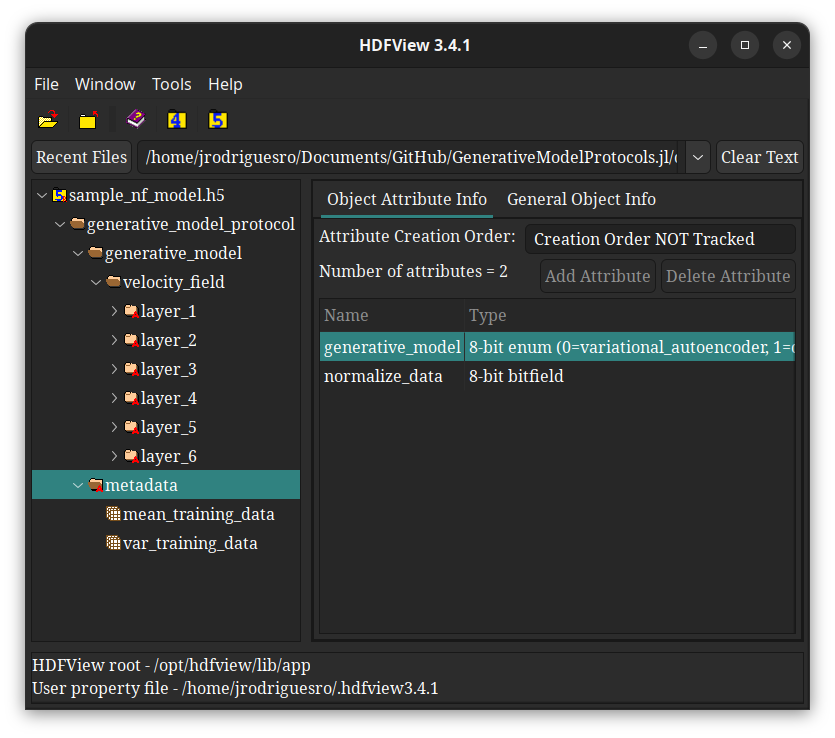
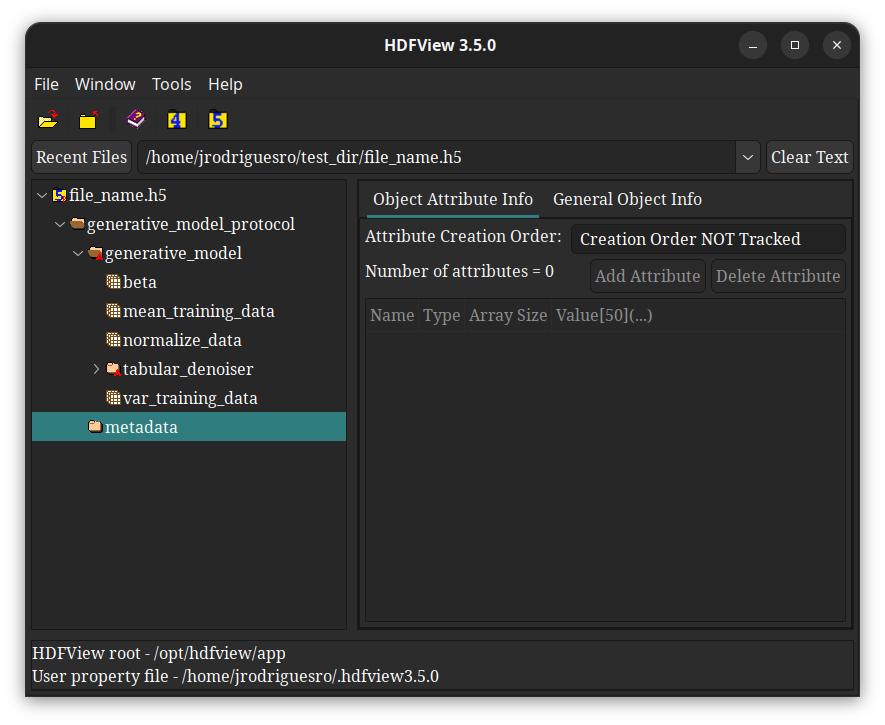
save_load example documentation updated to reflect chamges

diff --git a/docs/src/examples/save_load/save_load.md b/docs/src/examples/save_load/save_load.md
@@ -19,21 +19,14 @@ finally, we can save an already trained model
 julia> protocol
 GenerativeModelProtocol:
 training_data      = 2×5000 Matrix{Float64}
-mean_training_data = Tuple{Float32, Float64}
-var_training_data  = Tuple{Float32, Float64}
-model              = GenerativeModelProtocols.NormalizingFlow
+mean_training_data = Tuple{Float64, Float64}
+var_training_data  = Tuple{Float64, Float64}
+model              = GenerativeModelProtocols.DiffusionModel
 
 julia> protocol.model
-GenerativeModelProtocols.NormalizingFlow:
-velocity_field: 
-   Chain(
-      Dense(3 => 32, swish)
-      Dense(32 => 32, swish)
-      Dense(32 => 32, swish)
-      Dense(32 => 32, swish)
-      Dense(32 => 32, swish)
-      Dense(32 => 2)
-   )
+GenerativeModelProtocols.DiffusionModel:
+β              = NTuple{250, Float64}
+denoiser_model = GenerativeModelProtocols.TabularDenoiser
 ```
 to a file named `file_name.h5` with a single function call
 ```julia-repl
@@ -53,19 +46,12 @@ GenerativeModelProtocol:
 training_data      = 2×0 Matrix{Float64}
 mean_training_data = Tuple{Float64, Float64}
 var_training_data  = Tuple{Float64, Float64}
-model              = GenerativeModelProtocols.NormalizingFlow
+model              = GenerativeModelProtocols.DiffusionModel
 
 julia> loaded_protocol.model
-GenerativeModelProtocols.NormalizingFlow:
-velocity_field: 
-   Chain(
-      Dense(3 => 32, swish)
-      Dense(32 => 32, swish)
-      Dense(32 => 32, swish)
-      Dense(32 => 32, swish)
-      Dense(32 => 32, swish)
-      Dense(32 => 2)
-   )
+GenerativeModelProtocols.DiffusionModel:
+β              = NTuple{250, Float64}
+denoiser_model = GenerativeModelProtocols.TabularDenoiser
 ```
 It is worth pointing out that saved models/protocols are stripped of their 
 training data. Thus, to continue traning a saved model, `train_data` must be 
@@ -76,23 +62,23 @@ GenerativeModelProtocol:
 training_data      = 2×5000 Matrix{Float64}
 mean_training_data = Tuple{Float64, Float64}
 var_training_data  = Tuple{Float64, Float64}
-model              = GenerativeModelProtocols.NormalizingFlow
+model              = GenerativeModelProtocols.DiffusionModel
 
 julia> train!(loaded_protocol; epochs = 50);
 Training Diffusion Model...
-Epoch        1 | Mean MSE:   1.48582902e+00 
-Epoch        5 | Mean MSE:   1.43085193e+00 
-Epoch       10 | Mean MSE:   1.44327017e+00 
-Epoch       15 | Mean MSE:   1.43267012e+00 
-Epoch       20 | Mean MSE:   1.43097105e+00 
-Epoch       25 | Mean MSE:   1.43716303e+00 
-Epoch       30 | Mean MSE:   1.41456013e+00 
-Epoch       35 | Mean MSE:   1.42213919e+00 
-Epoch       40 | Mean MSE:   1.45697769e+00 
-Epoch       45 | Mean MSE:   1.40971190e+00 
-Epoch       50 | Mean MSE:   1.40970298e+00 
+Epoch       1 | Mean MSE Loss:   4.09887463E-01
+Epoch       5 | Mean MSE Loss:   3.81149679E-01
+Epoch      10 | Mean MSE Loss:   3.87548655E-01
+Epoch      15 | Mean MSE Loss:   3.75506788E-01
+Epoch      20 | Mean MSE Loss:   3.72695208E-01
+Epoch      25 | Mean MSE Loss:   3.75802636E-01
+Epoch      30 | Mean MSE Loss:   3.74438524E-01
+Epoch      35 | Mean MSE Loss:   3.89689803E-01
+Epoch      40 | Mean MSE Loss:   3.79057735E-01
+Epoch      45 | Mean MSE Loss:   3.86701316E-01
+Epoch      50 | Mean MSE Loss:   3.90410632E-01
 Training complete!
-Training took 37 seconds.
+Training took 51 seconds.
 ```
 
 # HDF5 Group Names
@@ -160,17 +146,17 @@ save("saved_protocol.h5", protocol;
 Finally, users can retrieve the saved protocol and metadata with
 ```julia-repl
 julia> saved_protocol, metadata = GenerativeModelProtocols.load("saved_protocol.h5";
-   main_group_name             = "customized_protocol",
-   metadata_group_name         = "customized_metadata",
-   generative_model_group_name = "customized_generative_model"
-);
+          main_group_name             = "customized_protocol",
+          metadata_group_name         = "customized_metadata",
+          generative_model_group_name = "customized_generative_model"
+       );
 
 julia> saved_protocol
 GenerativeModelProtocol:
 training_data      = 2×0 Matrix{Float64}
 mean_training_data = Tuple{Float64, Float64}
 var_training_data  = Tuple{Float64, Float64}
-model              = GenerativeModelProtocols.NormalizingFlow
+model              = GenerativeModelProtocols.DiffusionModel
 
 julia> metadata
 (A = 5.0, B = "32", C = [1, 3])
@@ -178,17 +164,17 @@ julia> metadata
 or, to continue training, with
 ```julia-repl
 julia> saved_protocol, metadata = GenerativeModelProtocols.load("saved_protocol.h5", train_data;
-   main_group_name             = "customized_protocol",
-   metadata_group_name         = "customized_metadata",
-   generative_model_group_name = "customized_generative_model"
-);
+          main_group_name             = "customized_protocol",
+          metadata_group_name         = "customized_metadata",
+          generative_model_group_name = "customized_generative_model"
+       );
 
 julia> saved_protocol
 GenerativeModelProtocol:
 training_data      = 2×5000 Matrix{Float64}
 mean_training_data = Tuple{Float64, Float64}
 var_training_data  = Tuple{Float64, Float64}
-model              = GenerativeModelProtocols.NormalizingFlow
+model              = GenerativeModelProtocols.DiffusionModel
 
 julia> metadata
 (A = 5.0, B = "32", C = [1, 3])
